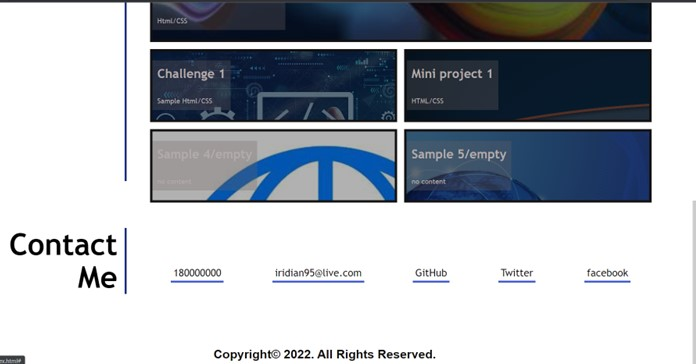
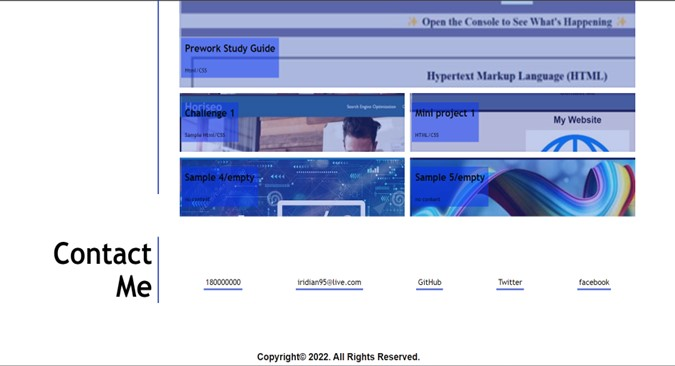
changes to img in readme file

diff --git a/index.html b/index.html
@@ -2,109 +2,118 @@
 <html langu="en-us">
 
 <head>
-   <meta charset="UTF-8">
-   <meta name="viewport" content="width=device-width, initial-scale=1.0">
-   <title>Iridian Web Developer</title>
-   <link rel="icon" type="image/x-icon" href="./assets/images/icon.jpg">
-   <meta name="description" content="Web developer with experience">
-   <meta name="keywords" content="website, web developer, webpages">
-   <link rel="stylesheet" type="text/css" href="./assets/css/style.css">
+  <meta charset="UTF-8">
+  <meta name="viewport" content="width=device-width, initial-scale=1.0">
+  <title>Iridian Web Developer</title>
+  <link rel="icon" type="image/x-icon" href="./assets/images/icon.jpg">
+  <meta name="description" content="Web developer with experience">
+  <meta name="keywords" content="website, web developer, webpages">
+  <link rel="stylesheet" type="text/css" href="./assets/css/style.css">
 </head>
-   <!-- main page -->
+<!-- main page -->
+
 <body>
- <header>
-  <img src="./assets/images/Iris.jpg" alt="a photo of Iris" />
-  <h1> Iridian Vargas </h1>
-</div>
-     <nav> 
-      
-       <a href="#aboutme">About Me</a>
-       <a href="#work">Work</a>
-       <a href="#contactme">Contact Me</a> 
-       <a href="#resume">Resume</a>
-    </nav>
+  <header>
+    <div class="position-header">
+    <img src="./assets/images/Iris.jpg" alt="a photo of Iris" />
+    <h1> Iridian Vargas </h1>
   </div>
-</header>
-
- <section class="page">
-   <div>
-   <h2>Website development</h2>
- </div>
-</section>
-<main class="content">
-  <section class="page-section" id="aboutme">
-    <h2>About Me</h2>
     <div>
-     <p>
-      My name is Iridian Cisneros Vargas, , I am a web developer and considering me as a person who likes to challenge my-self and learn new things. I got interest in web development.
-      I like to be creative, strategic and passionate about the digital world. I am interested in cover clients needs and expectations properly and being able to manage problem-solving stages during the process.
-      I have improved my skills learnt as a web developer and working in the updates the digital world brings everyday.
-    </p>
-    <p>
-      I am interested in new challenges that are presented in a daily basis in my work, I learn new things with experiences and working with teams consolidate a good processing of my skills in my presente.
-      The digital world has been a great opportunity to improve professionaly and be able to share with others my knowledge.
-    </p>
+      <nav>
+
+        <a href="#aboutme">About Me</a>
+        <a href="#work">Work</a>
+        <a href="#contactme">Contact Me</a>
+        <a href="#resume">Resume</a>
+      </nav>
     </div>
+  </header>
+
+  <section class="page">
+    <div>
+      <h2>Website development</h2>
+    </div>
+  </section>
+  <main class="content">
+    <section class="page-section" id="aboutme">
+      <h2>About Me</h2>
+      <div>
+        <p>
+          My name is Iridian Cisneros Vargas, , I am a web developer and considering me as a person who likes to
+          challenge my-self and learn new things. I got interest in web development.
+          I like to be creative, strategic and passionate about the digital world. I am interested in cover clients
+          needs and expectations properly and being able to manage problem-solving stages during the process.
+          I have improved my skills learnt as a web developer and working in the updates the digital world brings
+          everyday.
+        </p>
+        <p>
+          I am interested in new challenges that are presented in a daily basis in my work, I learn new things with
+          experiences and working with teams consolidate a good processing of my skills in my presente.
+          The digital world has been a great opportunity to improve professionaly and be able to share with others my
+          knowledge.
+        </p>
+      </div>
     </section>
-     <!-- portfolio container -->
-  <section class="page-section" id="work">
+    <!-- portfolio container -->
+    <section class="page-section" id="work">
       <h2>Work</h2>
-    <div class="container">
+      <div class="container">
 
 
-      <a href="https://naidiri1.github.io/prework-study-guide/" class="sample one">
-        <div>
-          <h3>Prework Study Guide</h3>
-          <span>Html/CSS</span>
-        </div>
-      </a>
-      
-      <a href="https://naidiri1.github.io/assigment-1/" class="sample two">
-        <div>
-          <h3>Challenge 1</h3>
-          <span>Sample Html/CSS</span>
-        </div>
-      </a>
-      <a href="https://naidiri1.github.io/bootcamp1/" class="sample  three">
-        <div>
-          <h3>Mini project 1</h3>
-          <span>HTML/CSS</span>
-        </div>
-      </a>
+        <a href="https://naidiri1.github.io/prework-study-guide/" class="sample one">
+          <div>
+            <h3>Prework Study Guide</h3>
+            <span>Html/CSS</span>
+          </div>
+        </a>
 
-      <a href="#" class="sample four">
-        <div>
-          <h3>Sample 4/empty </h3>
-          <span>no content </span>
-        </div>
-      </a>
+        <a href="https://naidiri1.github.io/assigment-1/" class="sample two">
+          <div>
+            <h3>Challenge 1</h3>
+            <span>Sample Html/CSS</span>
+          </div>
+        </a>
+        <a href="https://naidiri1.github.io/bootcamp1/" class="sample  three">
+          <div>
+            <h3>Mini project 1</h3>
+            <span>HTML/CSS</span>
+          </div>
+        </a>
 
-  
-      <a href="#" class="sample  five">
-        <div>
-          <h3>Sample 5/empty</h3>
-          <span>no content</span>
-        </div>
-      </a>
-    </div>
-  </section>
-   <!-- contact -->
-  <section class="page-section contact" id="contactme">
-    <h2>Contact Me</h2>
-    <div>
-      <address>
-        <a href="tel:1800000000">180000000 </a>
-        <a href="mailto:iridian95@live.com">iridian95@live.com</a>
-        <a href="https://github.com/Naidiri1">GitHub</a>
-        <a href="https://twitter.com/">Twitter</a>
-        <a href="https://www.facebook.com/">facebook</a>
-      </address>
-    </div>
-  </section>
-</main>
+        <a href="#" class="sample four">
+          <div>
+            <h3>Sample 4/empty </h3>
+            <span>no content </span>
+          </div>
+        </a>
 
-<footer>
-<p>Copyright© 2022. All Rights Reserved. </p>
-</footer>
+
+        <a href="#" class="sample  five">
+          <div>
+            <h3>Sample 5/empty</h3>
+            <span>no content</span>
+          </div>
+        </a>
+      </div>
+    </section>
+    <!-- contact -->
+    <section class="page-section contact" id="contactme">
+      <h2>Contact Me</h2>
+      <div>
+        <address>
+          <a href="tel:1800000000">180000000 </a>
+          <a href="mailto:iridian95@live.com">iridian95@live.com</a>
+          <a href="https://github.com/Naidiri1">GitHub</a>
+          <a href="https://twitter.com/">Twitter</a>
+          <a href="https://www.facebook.com/">facebook</a>
+        </address>
+      </div>
+    </section>
+  </main>
+
+  <footer>
+    <p>Copyright© 2022. All Rights Reserved. </p>
+  </footer>
 </body>
+
 </html>

diff --git a/assets/css/style.css b/assets/css/style.css
@@ -29,7 +29,7 @@ p {
 }
     
 header {
-  background-color: rgb(68, 94, 206);
+  background-color: rgb(77, 98, 190);
   padding: 15px 6% 10px 10;
   flex-direction: row;
   display: flex;
@@ -45,23 +45,31 @@ width: 120px;
 margin: 10px ;
 border-radius: 40%;
 
-
-
 }
 
+.position-header img, .position-header h1{
+  /* display: inline-block; */
+  overflow: auto;
+  float:left;
+}
 
+.position-header {
+  height: 120px
+}
 
-header h1 {
+header div h1 {
     color:rgb(24, 20, 20);
     padding: 5px 1% 5px 6%;
     margin: 0;
     font-size: 4vw;
-    line-height: 1;
-    display: inline;
-
+    position: relative;
+    left: 120px;
+    bottom: 110px;
+   
+  }
   
   /*nav  */
-}
+
 nav {
     display: flex;
     flex-direction: row;
@@ -108,11 +116,13 @@ nav {
     justify-content: flex-end;
     align-items: flex-end;
     text-align: right;
+ 
 
   }
   
 .page div {
     flex: 0 0 90%;
+ 
   }
   
 .page h2 {
@@ -132,6 +142,7 @@ nav {
     max-width: 88%;
     margin-left: auto;
     margin-right: auto;
+    font-size: 1.8rem;
     
     
 
@@ -153,7 +164,7 @@ nav {
     flex: 0 0 20%;
     text-align: right;
     padding-right: 15px;
-    border-right: 4px solid rgb(28, 44, 129);
+    border-right: 4px solid rgb(77, 98, 190);
     font-size: 4vw;
     line-height: 1.1;
   }
@@ -175,9 +186,10 @@ nav {
   }
   
   .sample {
-    border: 5px solid rgb(20, 18, 18);
-    background-color: rgb(32, 45, 58);
-    color: rgb(179, 170, 170);
+    border: 5px solid rgba(58, 37, 142, 0.03);
+    background-color:rgba(77, 98, 190, 0.527);
+    font-size: 4vw;
+    color: rgb(8, 7, 7);
     min-height: 150px;
     max-height: 150px;
     flex-basis: calc(50% - 1em);
@@ -200,11 +212,11 @@ nav {
   }
   
   .sample:hover {
-    background-color: rgba(0, 0, 0, 0.3);
+    background-color: rgba(180, 144, 144, 0.023);
   }
   
   .sample div {
-    background-color:rgba(109, 101, 101, 0.3);
+    background-color:rgba(7, 51, 250, 0.493);
     padding: 8px 10px;
   }
   
@@ -267,9 +279,30 @@ nav {
   @media screen and (max-width: 980px) {
     header {
       padding: 0 0 10px 0;
-      justify-content: center;
-      text-align: center;
+  
     }
+
+    header div {
+      display: flex;
+      flex-direction: column;
+      justify-content: flex-start;
+    }
+
+    .position-header img, .position-header h1{
+      display: block;
+    }
+
+    .position-header {
+      height: 160px;
+    }
+
+    header div h1 {
+      display: block;
+      position:relative;
+      bottom: 10px;
+      left: 10px;
+      font-size: 20px;;
+      }
   
     header h1 {
       width: 100%;
@@ -292,7 +325,7 @@ nav {
       border-bottom: 4px solid rgba(18, 24, 112, 0.3);
       margin-bottom: 20px;
       padding-bottom: 10px;
-      text-align: left;
+      text-align: center;
       font-size: 7vw;
     }
   }
@@ -314,7 +347,7 @@ nav {
   
     .contact address {
       flex-direction: column;
-      align-items: flex-start;
+      align-items: center;
 
     }
   }
@@ -328,4 +361,3 @@ footer {
     color: #0c0b0b;
     text-align: center;
 }
-
